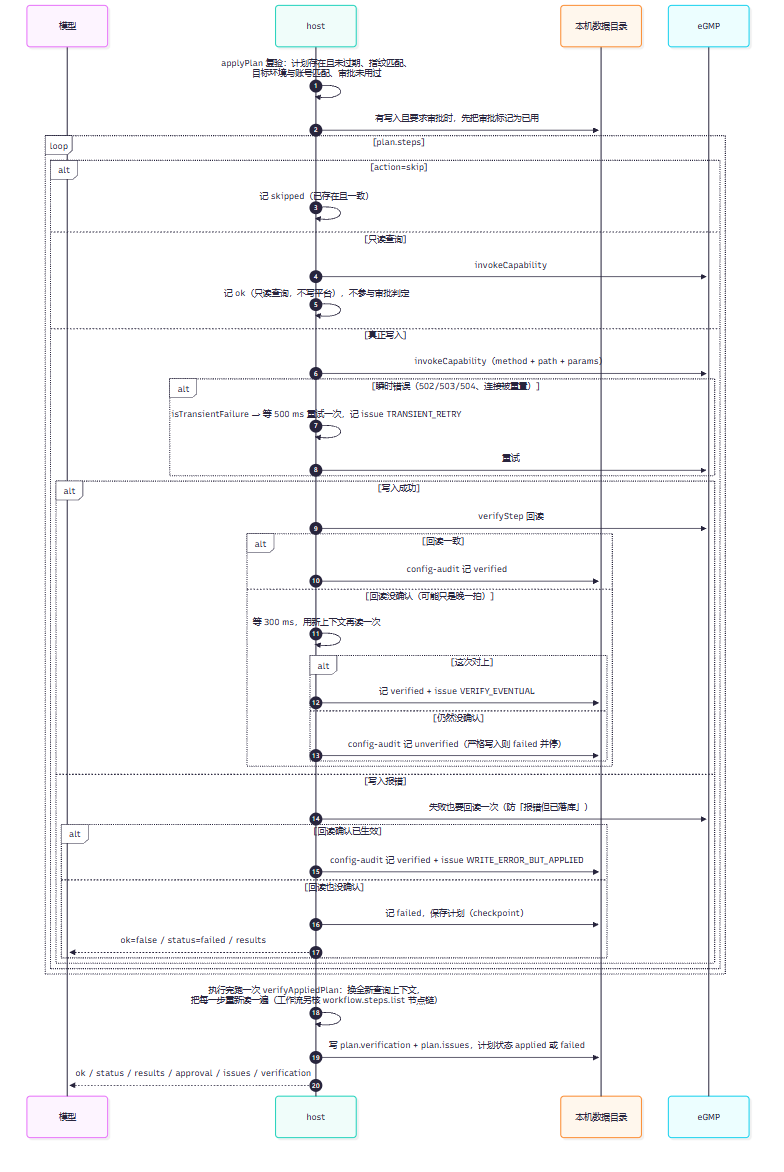
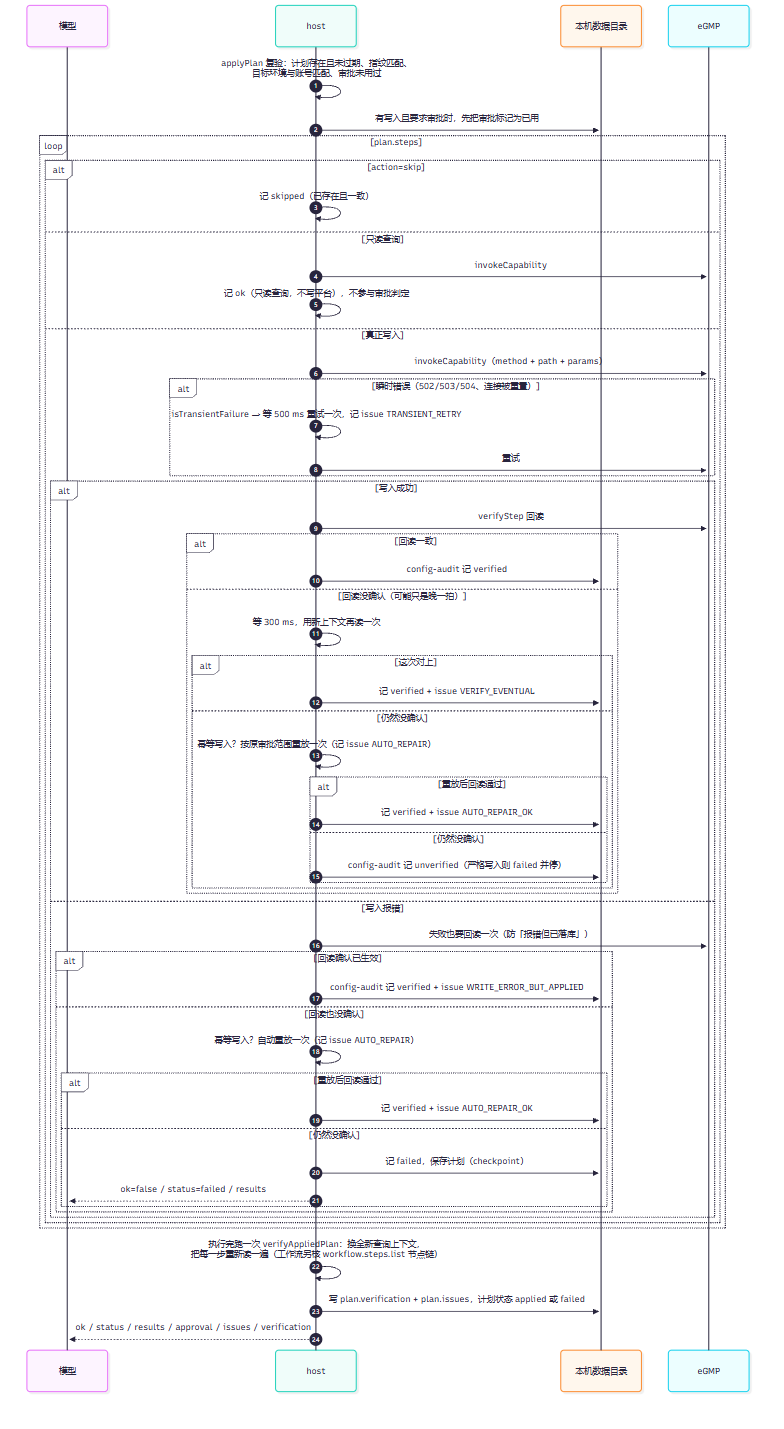
fix(config): 小错就地修（AUTO_REPAIR）与严格集判据防呆（0.2.19）

diff --git a/plugin/src/config/engine.ts b/plugin/src/config/engine.ts
@@ -44,8 +44,32 @@ const STRICT_VERIFY_CAPABILITIES: ReadonlySet<string> = new Set([
   'lifecycle.useraction.create',
   'lifecycle.useraction.update',
   'lifecycle.enteraction.create',
-  'lifecycle.enteraction.update',
 ])
+
+/**
+ * 幂等写入：重放一次不会多建一条记录（改、整份覆盖、状态收口）。
+ * 只这些能力允许「执行中小错自动重跑一次」，新建类绝不自动重放。
+ */
+const IDEMPOTENT_WRITE_CAPABILITIES: ReadonlySet<string> = new Set([
+  'field.save',
+  'picklist.save',
+  'layout.save',
+  'listlayout.columns.set',
+  'listlayout.filter.save',
+  'listlayout.save',
+  'lifecycle.status.update',
+  'lifecycle.useraction.update',
+  'workflow.update',
+  'workflow.status.change',
+  'workflow.start.update',
+  'workflow.task.update',
+  'workflow.decision.update',
+  'workflow.action.update',
+])
+
+export function canAutoRepair(capabilityId: string): boolean {
+  return IDEMPOTENT_WRITE_CAPABILITIES.has(capabilityId)
+}
 
 export function requiresVerifiedWrite(capabilityId: string): boolean {
   return STRICT_VERIFY_CAPABILITIES.has(capabilityId)
@@ -1208,6 +1232,11 @@ export async function verifyCallCapability(
     if (typeof params.isEnabled === 'boolean' && Boolean(hit.isEnabled) !== params.isEnabled) {
       diffs.push(`isEnabled 回读 ${String(hit.isEnabled)}`)
     }
+    // sort 是这条接口的“假成功”：2026-11-26 三次改排序都返回成功，Status/GetList 读回来还是旧值。
+    // 不假装成功——提交了 sort 就必须核回来，核不上就记成不一致（非严格，不阻断，但台账里留一条）。
+    if (typeof params.sort === 'number' && Number(hit.sort ?? NaN) !== params.sort) {
+      diffs.push(`sort 提交 ${params.sort}、回读 ${String(hit.sort ?? '空')}（平台 Status/Update 不落 sort，只能在界面拖）`)
+    }
     return diffs.length > 0
       ? { verified: false, message: `回读状态「${String(hit.name ?? code)}」：${diffs.join('；')}` }
       : { verified: true, message: `回读状态「${String(hit.name ?? code)}」：共 ${mine.length} 个状态` }
@@ -1334,6 +1363,43 @@ export async function verifyCallCapability(
   }
 
   return null
+}
+
+/**
+ * 有专属回读判据的能力（`verifyCallCapability` 里的分支）。
+ * 用途：卡死「严格验证 + 没有判据 = 永远失败」这种死锁——单测会断言
+ * `STRICT_VERIFY_CAPABILITIES ⊆ hasReadbackCriteria`。
+ */
+const CALL_VERIFY_CAPABILITIES: ReadonlySet<string> = new Set([
+  'approvalmatrix.rule.add',
+  'field.save',
+  'layout.save',
+  'lifecycle.enteraction.create',
+  'lifecycle.status.create',
+  'lifecycle.status.update',
+  'lifecycle.useraction.create',
+  'lifecycle.useraction.update',
+  'listlayout.columns.set',
+  'listlayout.filter.save',
+  'listlayout.save',
+  'menu.submit',
+  'notice.template.create',
+  'notice.template.update',
+  'object.save',
+  'picklist.save',
+  'workflow.create',
+  'workflow.delete',
+  'workflow.status.change',
+  'workflow.decision.add',
+  'workflow.action.add',
+  'workflow.step.copy',
+  'workflow.step.delete',
+  'workflow.task.add',
+  'workflow.update',
+])
+
+export function hasReadbackCriteria(capabilityId: string): boolean {
+  return CALL_VERIFY_CAPABILITIES.has(capabilityId) || STEP_UPDATE_CAPABILITIES.has(capabilityId)
 }
 
 /** 把五花八门的响应（data[] / data.datas[] / data.rows[] / data.data[]）统一成行数组。 */
@@ -1691,7 +1757,15 @@ export async function applyPlan(session: EgmpSession, planId: string, dshHome: s
         }
       }
       const strict = requiresVerifiedWrite(step.capabilityId)
-      const blocked = strict && !verify.verified
+      let blocked = strict && !verify.verified
+      // 小错就地修：写进去了但回读没通过（或严格校验将要阻断）时，按原审批范围重放一次。
+      if (!verify.verified) {
+        const repair = await autoRepair(session, step, res, bindings, issues, verify.message)
+        if (repair.verify?.verified === true) {
+          verify = repair.verify
+          blocked = false
+        }
+      }
       if (!blocked && !verify.verified) {
         issues.record({
           level: 'warn',
@@ -1731,6 +1805,16 @@ export async function applyPlan(session: EgmpSession, planId: string, dshHome: s
         message: verifyError instanceof Error ? verifyError.message : String(verifyError),
       }))
       const failure = error instanceof Error ? error.message : String(error)
+      // 写报错也可能只是“写完回未授权”或平台抖动：幂等写入按原审批范围重放一次再判。
+      let repaired = false
+      if (!verify.verified) {
+        const repair = await autoRepair(session, step, res, bindings, issues, `写入报「${failure}」`)
+        if (repair.verify?.verified === true) {
+          repaired = true
+          verify.verified = repair.verify.verified
+          verify.message = repair.verify.message
+        }
+      }
       const result: StepResult = {
         stepId: step.id,
         title: step.title,
@@ -1738,7 +1822,9 @@ export async function applyPlan(session: EgmpSession, planId: string, dshHome: s
         action: step.action,
         status: verify.verified ? 'verified' : 'failed',
         message: verify.verified
-          ? `写入报「${failure}」，但回读确认已生效：${verify.message}`
+          ? repaired
+            ? `写入报「${failure}」，按原审批范围自动重放一次后回读确认：${verify.message}`
+            : `写入报「${failure}」，但回读确认已生效：${verify.message}`
           : `${failure}；回读未确认：${verify.message}`,
         traceId: error instanceof EgmpError ? error.traceId : null,
         durationMs: Date.now() - t0,
@@ -1787,6 +1873,64 @@ export async function applyPlan(session: EgmpSession, planId: string, dshHome: s
   plan.issues = issues.all()
   savePlan(workspaceRoot, plan)
   return plan
+}
+
+/**
+ * 执行中的小错就地修：同一能力、同一目标、幂等写入，重放**一次**，全程记台账。
+ * 不扩大审批范围——重放的只是人已经批准过的这一步；新建类或非幂等能力一律不自动重放，
+ * 免得把“小错”变成“多一条记录”。
+ */
+async function autoRepair(
+  session: EgmpSession,
+  step: Step,
+  res: Resolution,
+  bindings: BindingContext,
+  issues: IssueLog,
+  reason: string,
+): Promise<{ message: string; verify: { verified: boolean; message: string } | null }> {
+  if (!canAutoRepair(step.capabilityId)) return { message: reason, verify: null }
+  issues.record({
+    level: 'warn',
+    code: 'AUTO_REPAIR',
+    message: `${step.title}：${reason}；这是原审批范围内的幂等写入，自动重放一次`,
+    stepId: step.id,
+    capabilityId: step.capabilityId,
+  })
+  await sleep(400)
+  try {
+    const { message } = await applyStep(freshContext(session), step, res, bindings)
+    const verify = await verifyStep(freshContext(session), step, res).catch((error: unknown) => ({
+      verified: false,
+      message: errorText(error),
+    }))
+    if (verify.verified) {
+      issues.record({
+        level: 'info',
+        code: 'AUTO_REPAIR_OK',
+        message: `${step.title}：自动重放后回读通过`,
+        stepId: step.id,
+        capabilityId: step.capabilityId,
+      })
+    } else {
+      issues.record({
+        level: 'error',
+        code: 'AUTO_REPAIR_FAILED',
+        message: `${step.title}：自动重放仍未通过——${verify.message}`,
+        stepId: step.id,
+        capabilityId: step.capabilityId,
+      })
+    }
+    return { message, verify }
+  } catch (error) {
+    issues.record({
+      level: 'error',
+      code: 'AUTO_REPAIR_FAILED',
+      message: `${step.title}：自动重放报错——${errorText(error)}`,
+      stepId: step.id,
+      capabilityId: step.capabilityId,
+    })
+    return { message: reason, verify: null }
+  }
 }
 
 /** 瞬时故障重试一次；重试前后都记台账，失败也不吞。 */

diff --git a/AGENTS.md b/AGENTS.md
@@ -118,6 +118,15 @@
   只有严格写入（workflow.*、state 按钮等）回读未通过才停。
 - **重试只对瞬时错误**：`isTransientFailure` = HTTP 502/503/504 或 `ECONNRESET/ETIMEDOUT/EAI_AGAIN/
   socket hang up/fetch failed`；只重试**一次**。写成功却回 401 的那类由回读兜底，**绝不重试**（会写两遍）。
+- **小错就地修（`AUTO_REPAIR`）**：回读没过、或写入报错时，若这一步属于**幂等写入**
+  （`canAutoRepair`：field/picklist/layout/listlayout/lifecycle.status.update/lifecycle.useraction.update/
+  workflow.update/workflow.status.change/四类 `workflow.*Step.update`），引擎按**原审批范围**重放一次
+  （等 400 ms 后重放 + 重新回读），不回到审批窗、不扩大写入范围；通过记 `AUTO_REPAIR_OK`，
+  仍不过记 `AUTO_REPAIR_FAILED`。新建类（`*.create` / `*.add`）**绝不自动重放**。
+- **严格验证必须对得上判据**：单测断言「严格集 ⊆ 有回读判据的能力集」（`hasReadbackCriteria`），
+  否则会出现「要求严格回读 → 却没判据 → 永远 failed」的死锁。新增严格能力时必须同时补判据。
+- **接口的“假成功”要写进判据**：`lifecycle.status.update` 的 `sort` 平台不落库（2026-11-26 三次实测），
+  现在提交了 `sort` 就必须核回来，核不上记成不一致（非严格，不阻断，台账留痕）。
 - **执行后确认**：`engine.verifyAppliedPlan(session, plan)` 用全新查询上下文把每一步重新读一遍，
   产出 `VerificationReport`；apply 结束自动跑一次并写 `plan.verification`。菜单已有回读判据
   （`menu.list` 按 code 核对父菜单与绑定对象），不再「需人工在控制台确认」；工作流另外跑
